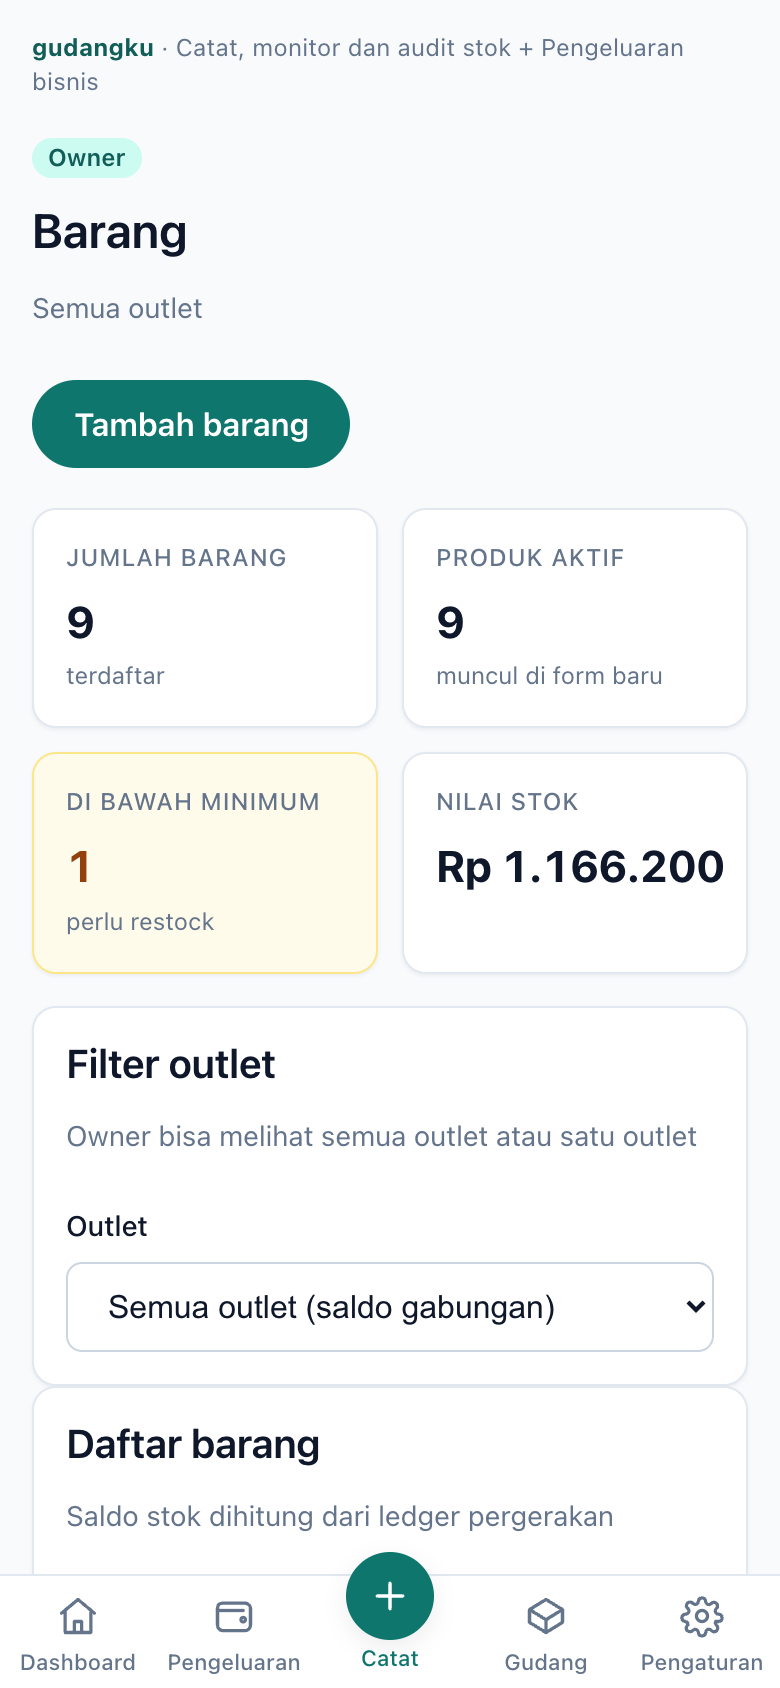
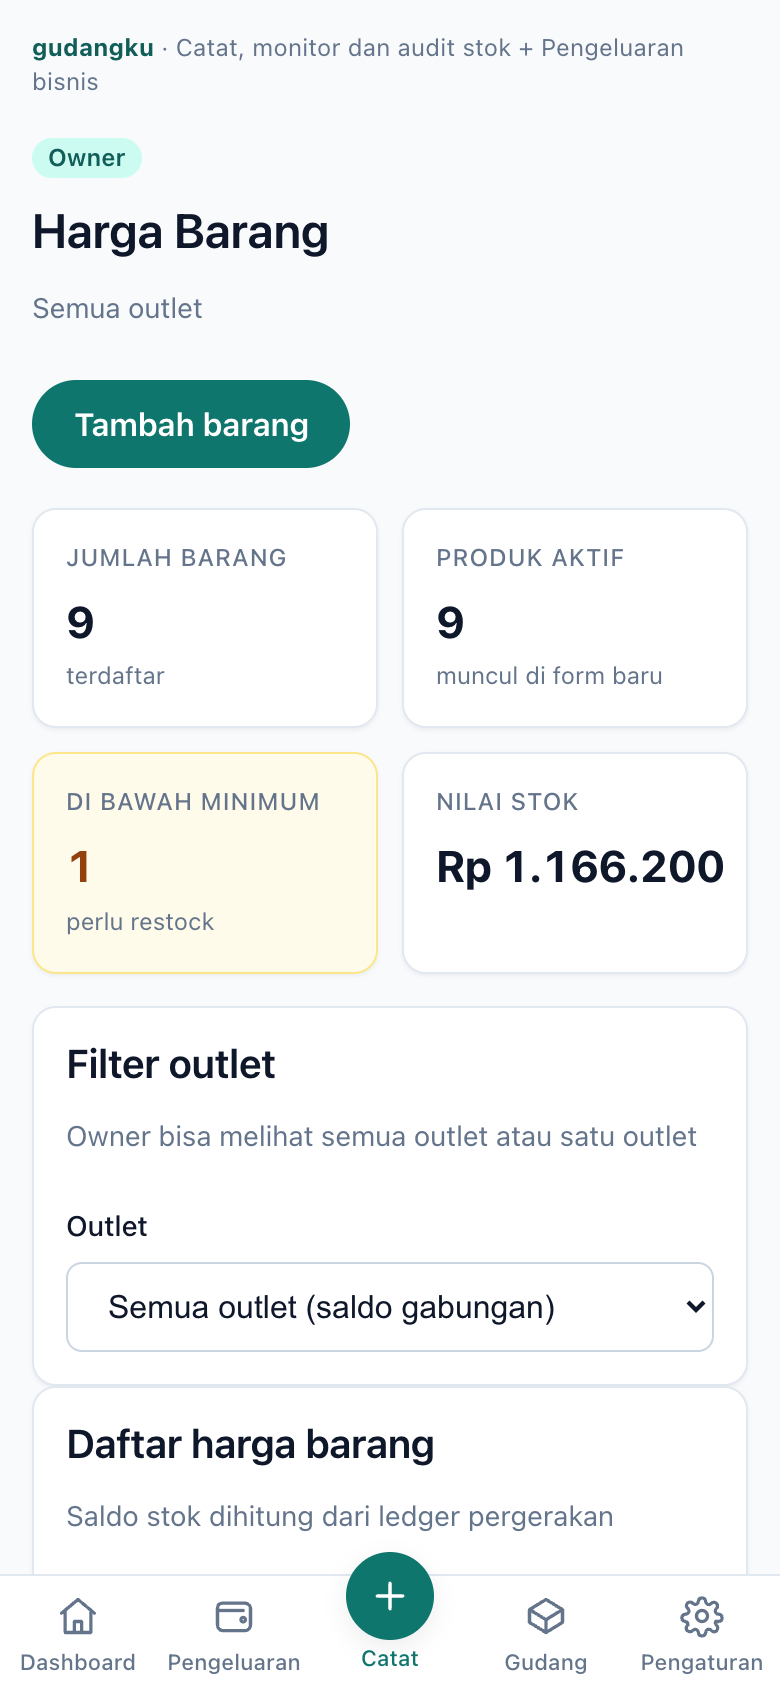
feat: employee seeder, product price date backfill, and table empty state

Changed region(s): [[0.0615, 0.1232, 0.4308, 0.154], [0.2769, 0.8318, 0.5538, 0.8626]]

diff --git a/resources/js/Components/DataTable.jsx b/resources/js/Components/DataTable.jsx
@@ -23,9 +23,7 @@ export default function DataTable({
         );
     }
 
-    if (!rows || rows.length === 0) {
-        return empty;
-    }
+    const isEmpty = !rows || rows.length === 0;
 
     return (
         <div className="data-table__scroll">
@@ -47,18 +45,28 @@ export default function DataTable({
                 </thead>
 
                 <tbody>
-                    {rows.map((row) => (
-                        <tr key={rowKey(row)}>
-                            {columns.map((column) => (
-                                <td
-                                    key={column.key}
-                                    className={column.align === 'right' ? 'is-right' : undefined}
-                                >
-                                    {renderCell(row, column)}
-                                </td>
-                            ))}
+                    {isEmpty ? (
+                        // Header tetap tampil walau belum ada data, supaya pengguna
+                        // tahu kolom apa saja yang akan terisi.
+                        <tr>
+                            <td colSpan={columns.length} className="data-table__empty">
+                                {empty}
+                            </td>
                         </tr>
-                    ))}
+                    ) : (
+                        rows.map((row) => (
+                            <tr key={rowKey(row)}>
+                                {columns.map((column) => (
+                                    <td
+                                        key={column.key}
+                                        className={column.align === 'right' ? 'is-right' : undefined}
+                                    >
+                                        {renderCell(row, column)}
+                                    </td>
+                                ))}
+                            </tr>
+                        ))
+                    )}
                 </tbody>
             </table>
         </div>

diff --git a/resources/css/app.css b/resources/css/app.css
@@ -749,6 +749,12 @@ button {
     border-radius: var(--radius-card);
 }
 
+/* Baris keadaan kosong: header tetap terlihat di atasnya. */
+.data-table__empty {
+    padding: 0;
+    white-space: normal;
+}
+
 /* ---------- Keadaan kosong ---------- */
 .empty {
     display: flex;

diff --git a/database/seeders/EmployeeSeeder.php b/database/seeders/EmployeeSeeder.php
@@ -1,0 +1,27 @@
+<?php
+
+namespace Database\Seeders;
+
+use App\Models\Employee;
+use Illuminate\Database\Seeder;
+
+class EmployeeSeeder extends Seeder
+{
+    public function run(): void
+    {
+        // Data acuan gaji. Pengeluaran gaji per outlet tetap dicatat
+        // di tabel expenses kategori gaji.
+        $employees = [
+            ['name' => 'Siti Aminah', 'salary' => 120000, 'salary_unit' => 'harian', 'note' => 'bagian cuci'],
+            ['name' => 'Budi Santoso', 'salary' => 1500000, 'salary_unit' => 'bulanan', 'note' => 'kasir'],
+            ['name' => 'Rina Marlina', 'salary' => 350000, 'salary_unit' => 'mingguan', 'note' => 'setrika'],
+        ];
+
+        foreach ($employees as $employee) {
+            Employee::updateOrCreate(
+                ['name' => $employee['name']],
+                [...$employee, 'is_active' => true],
+            );
+        }
+    }
+}

diff --git a/database/seeders/CatalogSeeder.php b/database/seeders/CatalogSeeder.php
@@ -60,6 +60,7 @@ class CatalogSeeder extends Seeder
                     'unit' => $product['unit'],
                     'min_stock' => $product['min_stock'],
                     'price_buy' => $product['price_buy'],
+                    'price_updated_at' => now('Asia/Jakarta')->toDateString(),
                     'is_active' => true,
                 ],
             );

diff --git a/database/seeders/DatabaseSeeder.php b/database/seeders/DatabaseSeeder.php
@@ -19,6 +19,7 @@ class DatabaseSeeder extends Seeder
             CatalogSeeder::class,
             PurchaseSeeder::class,
             ExpenseSeeder::class,
+            EmployeeSeeder::class,
             StockOpnameSeeder::class,
         ]);
     }
